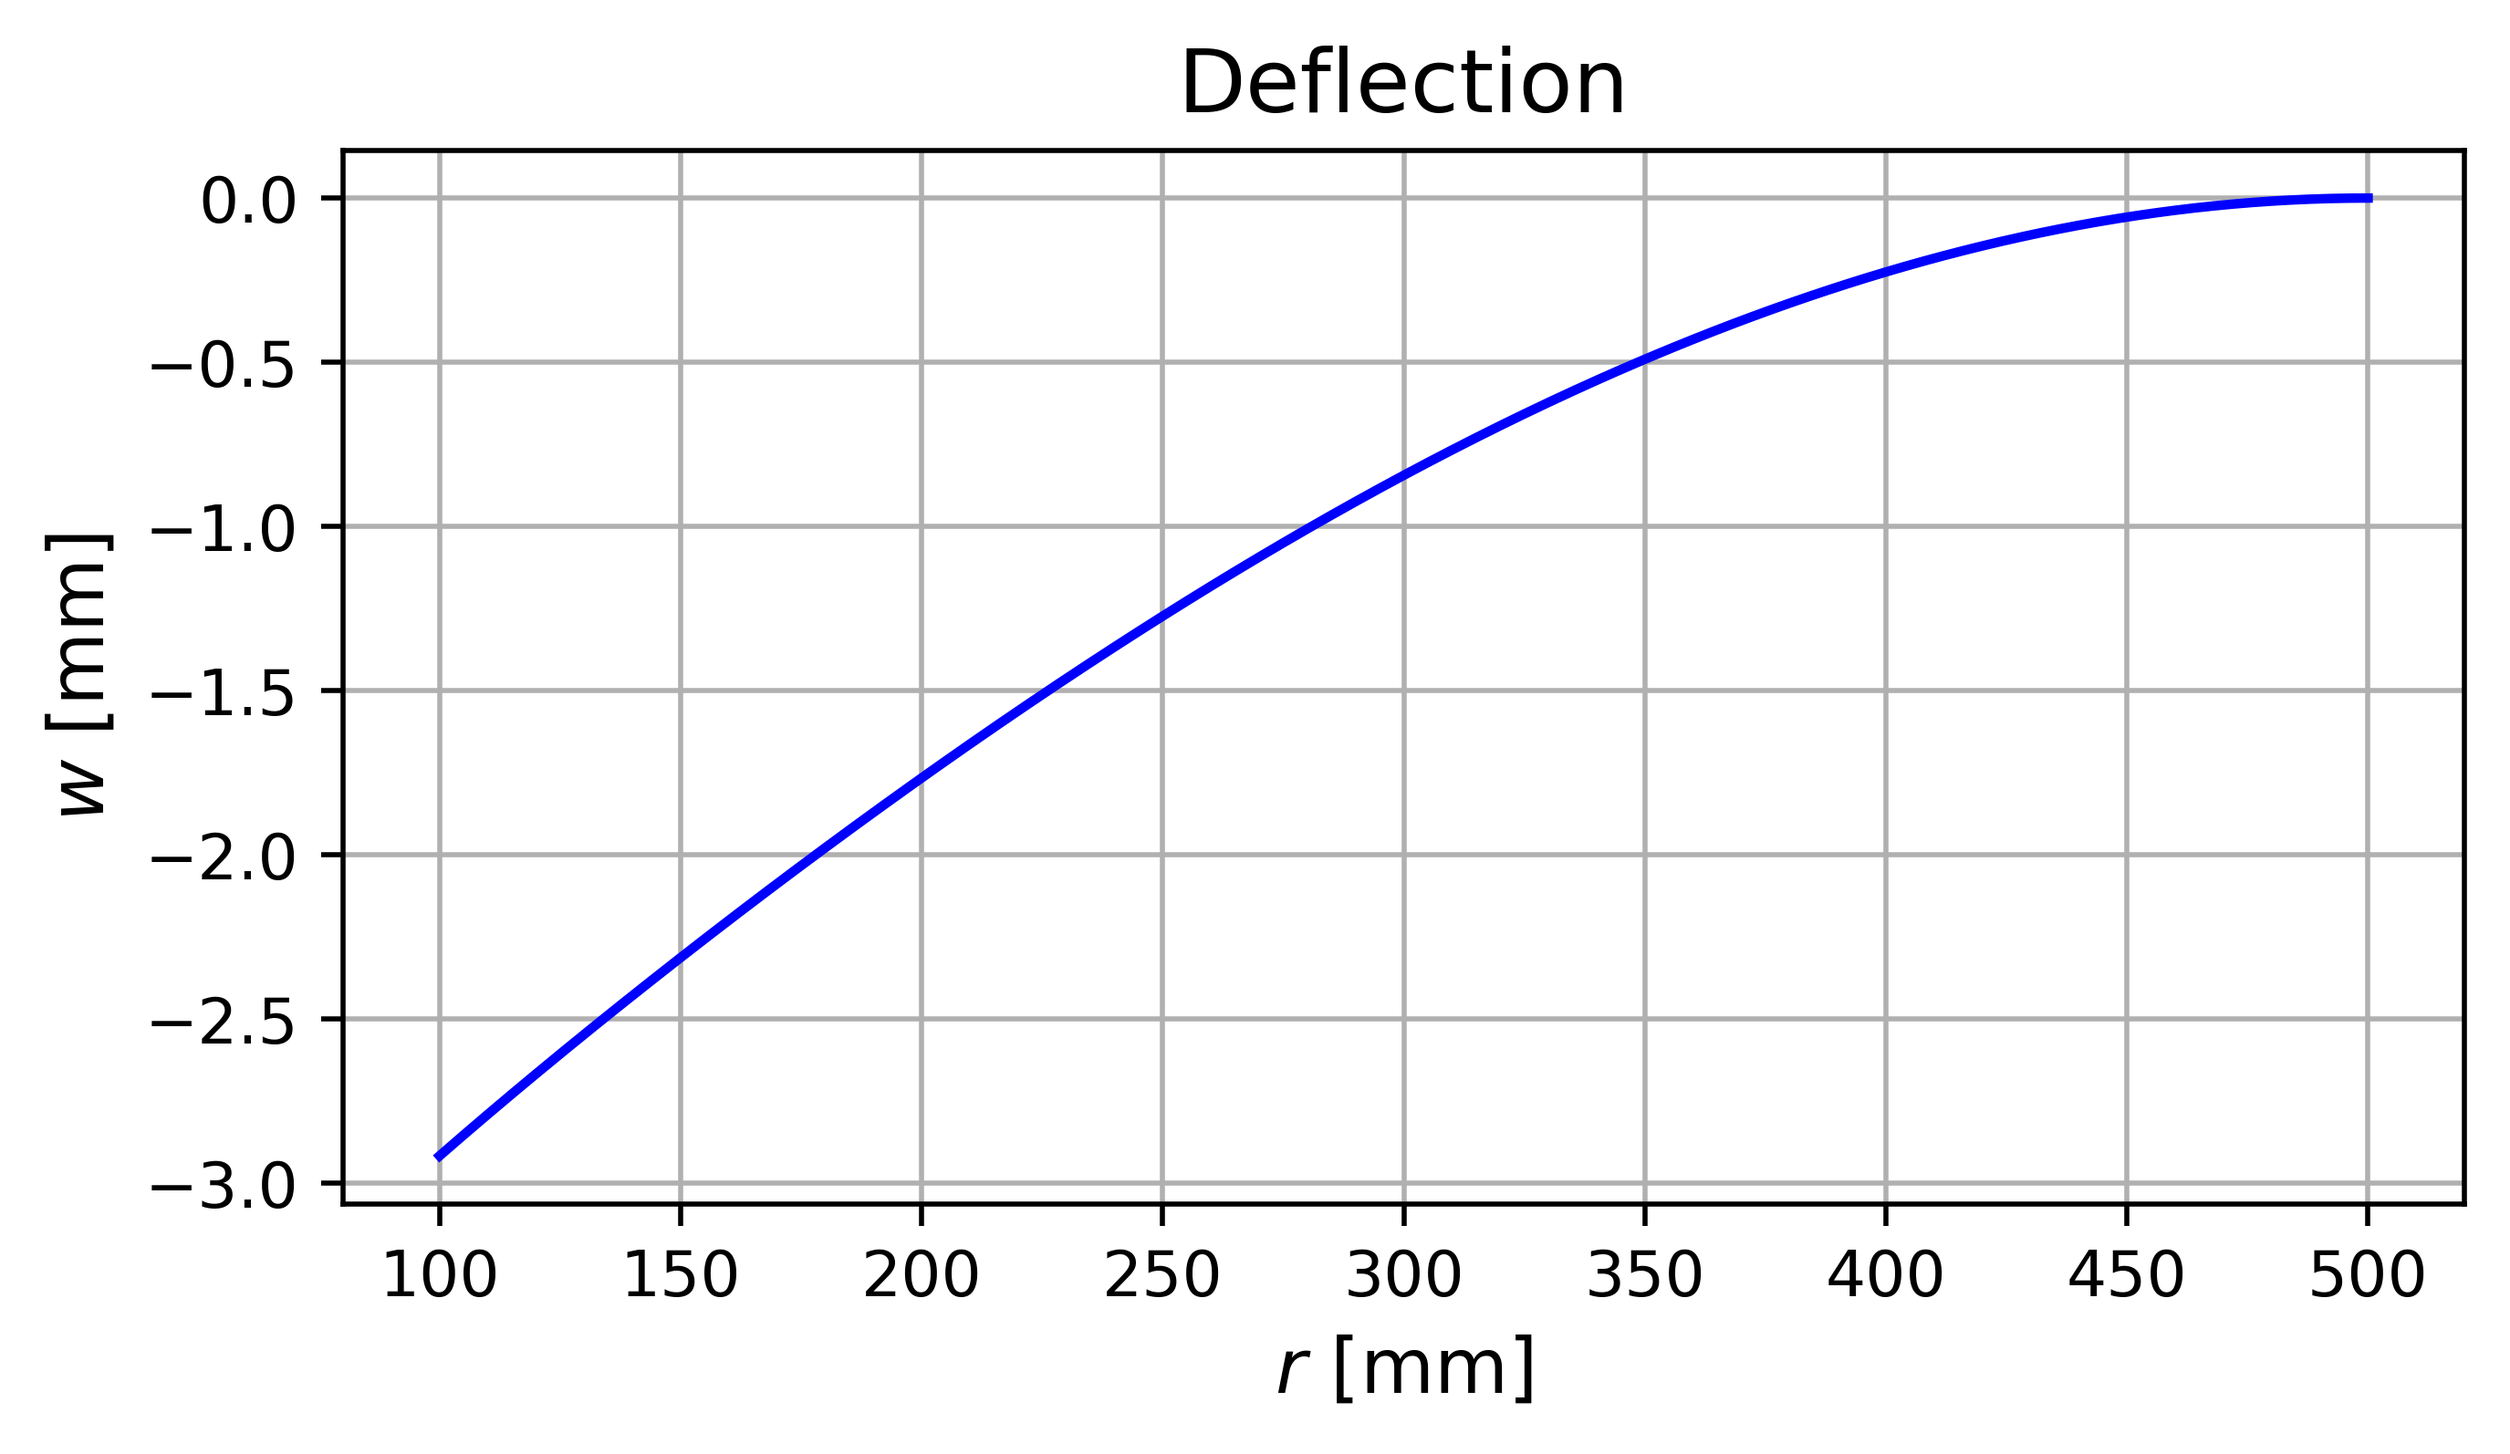
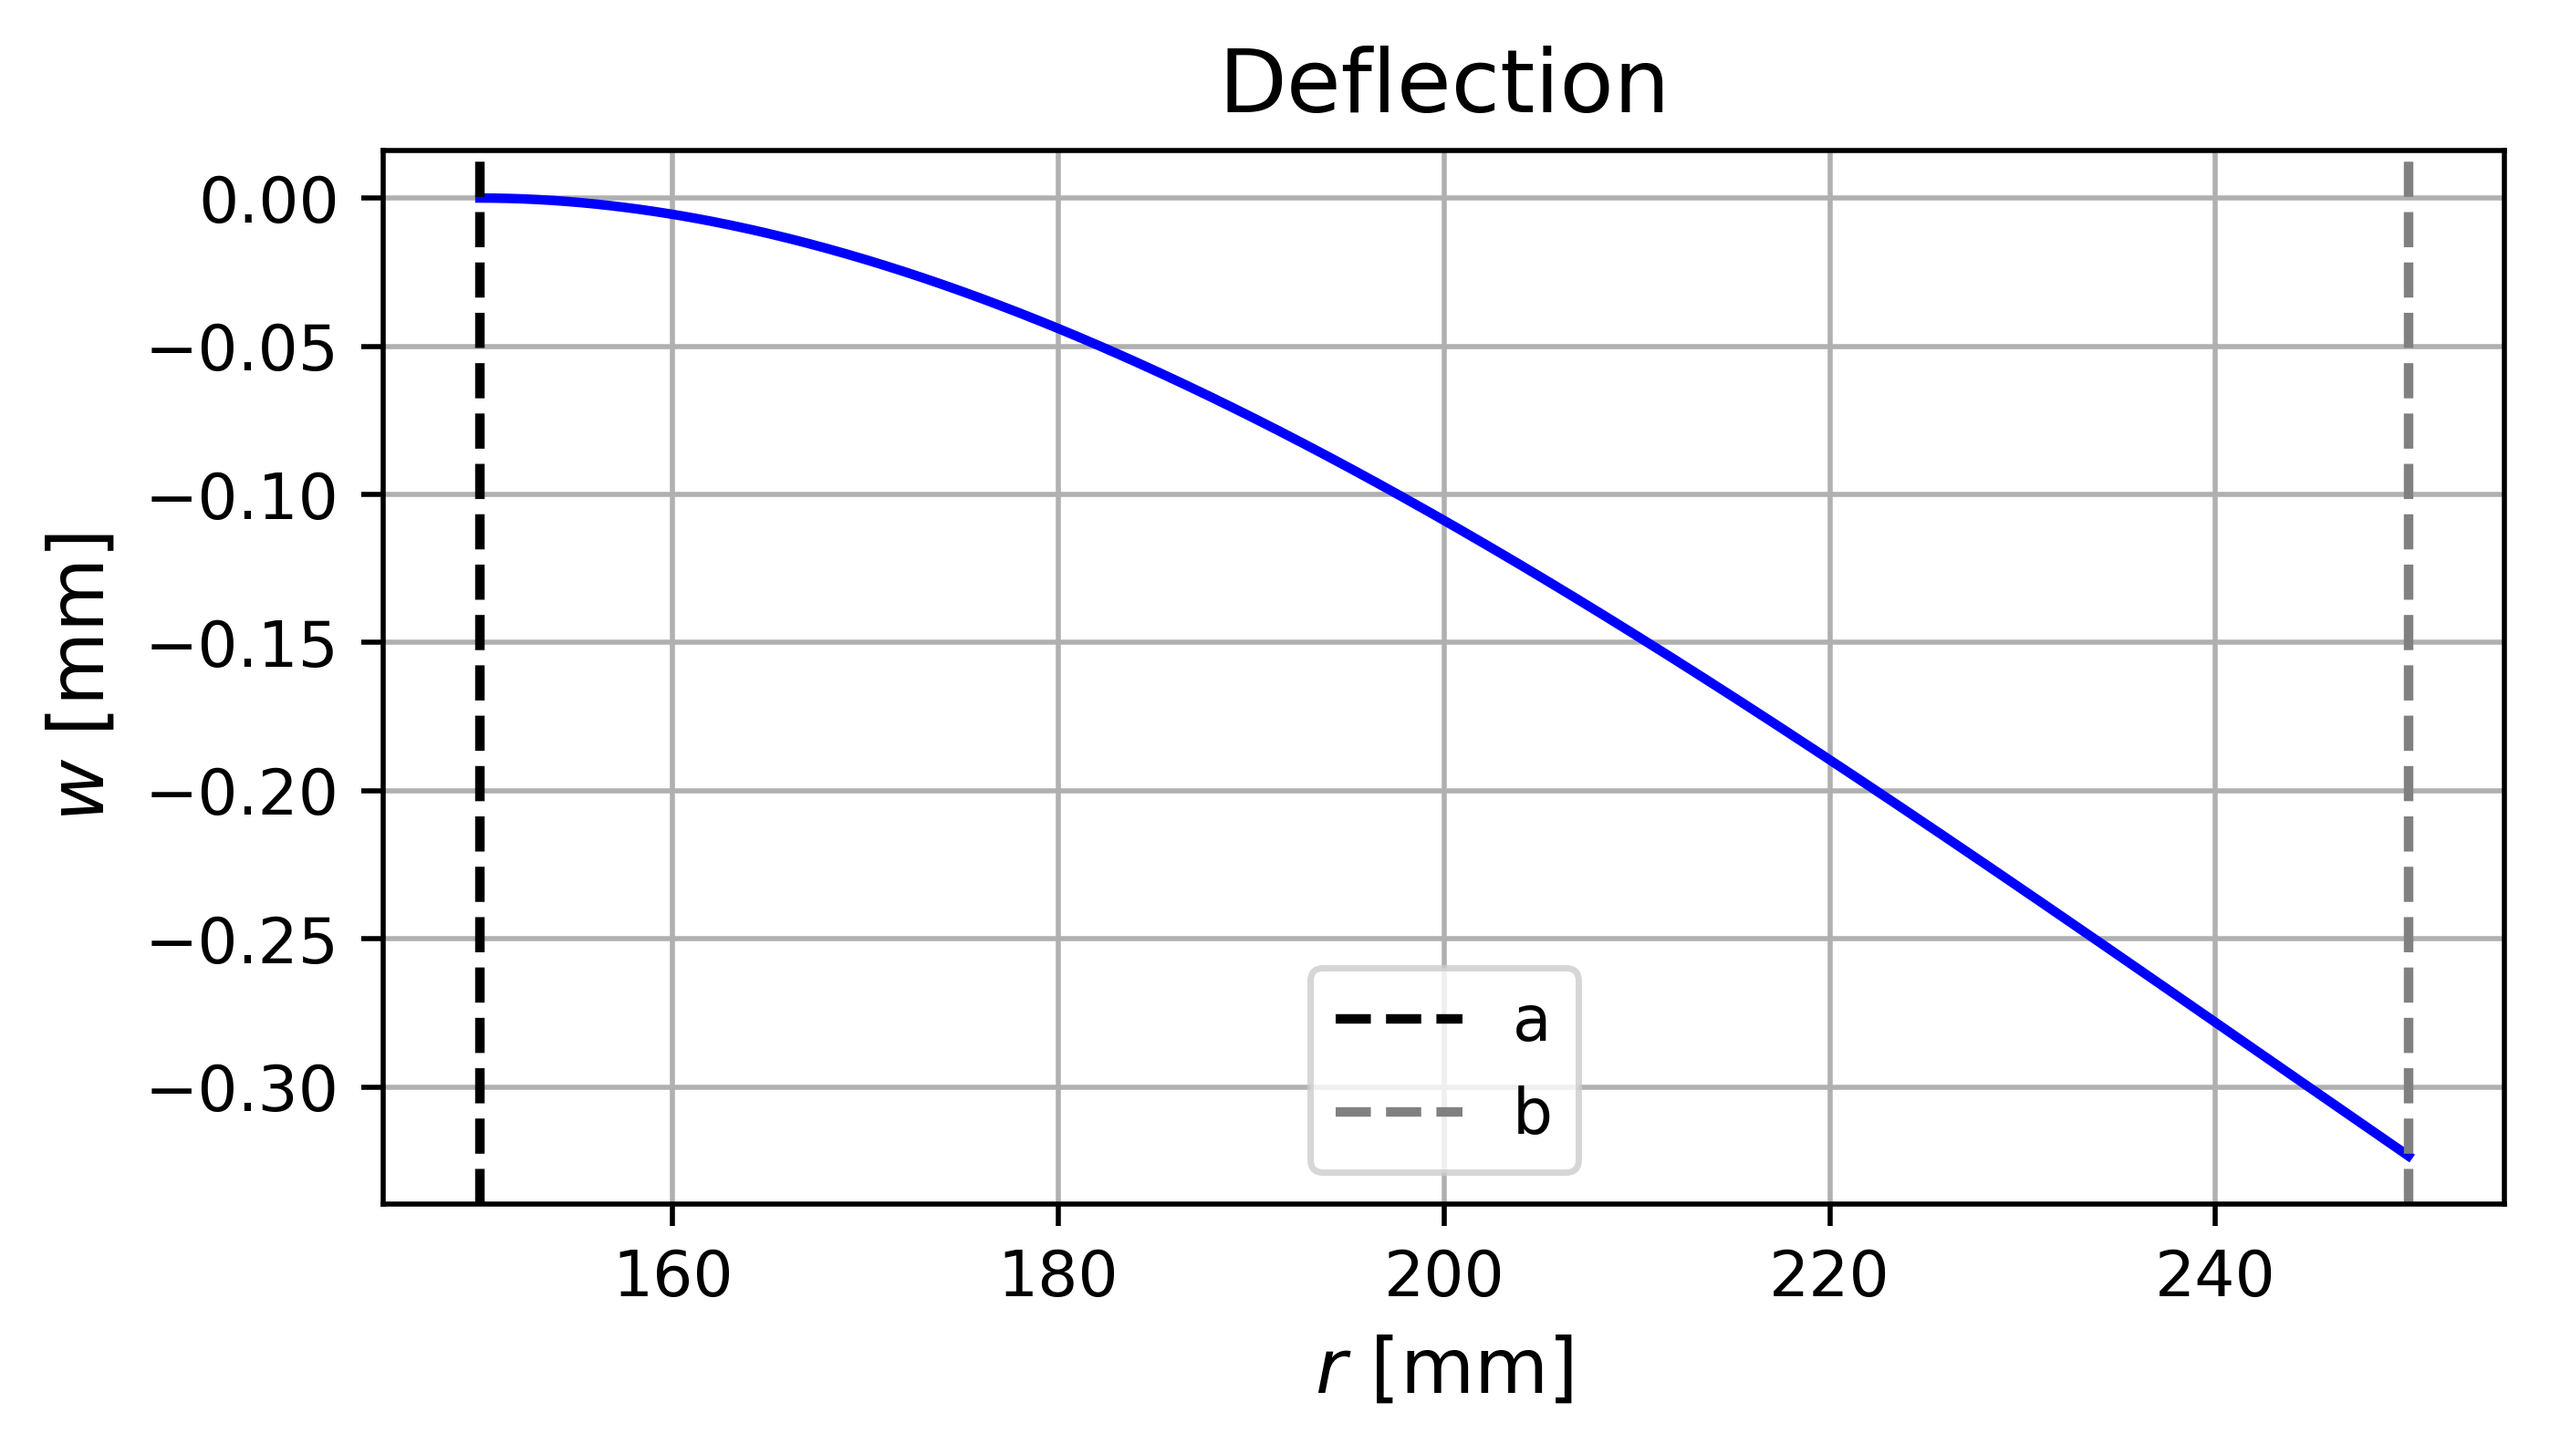
.

diff --git a/TME235/A1&A2 (TME235) - Martin.py b/TME235/A1&A2 (TME235) - Martin.py
@@ -29,7 +29,11 @@ G_num = E_num / (2 * (1 + poisson_num))
 
 # ASSIGNMENT 2 - Axissymetry
 
-
+a_num = 150 # mm
+b_num = 250 # mm
+h0_num = 20 # mm
+p_num = 120 * 10**6 # Pa
+E2_num = 200 * 10**9 # Pa
 
 #%% 
 ####################################################################################################
@@ -51,10 +55,10 @@ M = -E*I*w.diff(x, 2)
 
 # Boundary conditions for distributed load
 boundary_conditions = [ 
-                        w.subs(x, 0),                       #w(0) = 0
-                        w.diff(x).subs(x, 0),               #w'(0) = 0
-                        M.subs(x, L),                       #w''(L) = 0
-                        w.diff(x,3).subs(x, L) - P/(-E*I)   #w'''(L) = -P
+                        w.subs(x, 0),                               #w(0) = 0
+                        w.diff(x).subs(x, 0),                       #w'(0) = 0
+                        M.subs(x, L),                               #w''(L) = 0
+                        w.diff(x, 3).subs(x, L) - P / (-E * I)      #w'''(L) = -P
                         ]
 print('\nboundary conditions:')
 display(boundary_conditions)
@@ -76,11 +80,11 @@ w_vals = w_func(x_vals, L, q0_num, P_num, E_num, I_num)
 
 plt.figure()
 plt.plot(x_vals, w_vals*1e3, 'b-')
+plt.axhline(0, color='black', linestyle='--')
 plt.title('Beam Deflection under Combined Loading at L=3')
 plt.xlabel('Position along beam (m)')
 plt.ylabel('Deflection (mm)')
 plt.grid(True)
-plt.axhline(0, color='black', linestyle='--')
 plt.ylim(bottom=min(w_vals)*1e3*1.1)
 plt.xlim(0, L)
 plt.show()
@@ -93,11 +97,11 @@ w_vals = w_func(x_vals, L, q0, P_num, E_num, I_num)
 
 plt.figure()
 plt.plot(x_vals, w_vals*1e3, 'b-')
+plt.axhline(0, color='black', linestyle='--')
 plt.title('Beam Deflection under Combined Loading at L=0.3')
 plt.xlabel('Position along beam (m)')
 plt.ylabel('Deflection (mm)')
 plt.grid(True)
-plt.axhline(0, color='black', linestyle='--')
 plt.ylim(bottom=min(w_vals)*1e3*1.1)
 plt.xlim(0, L)
 plt.show()
@@ -243,10 +247,10 @@ V    = diff(M_r, r) + 1 / r * (M_r - M_phi)         # shear force field
 
 # Apply the boundary conditions
 boundary_conditions = [
-                        M_r.subs(r, a),         # inner boundary radial bending moment free
-                        V.subs(r, a) - F,       # inner boundary shear force applied
-                        w.subs(r, b),           # outer boundary deflection fixed
-                        w_prime.subs(r, b)      # outer boundary rotation fixed
+                        M_r.subs(r, b),         # outer boundary radial bending moment free
+                        V.subs(r, b) - F,       # outer boundary shear force applied
+                        w.subs(r, a),           # inner boundary deflection fixed
+                        w_prime.subs(r, a)      # inner boundary rotation fixed
                        ]
 
 # Solve for unknown constants
@@ -259,17 +263,20 @@ w_ = simplify(w.subs(sol)) # constants substituted
 print("w(r) = ", w_)
 
 # Plot the deflection field for a given set of parameters
-wp_f = simplify(w_.subs({F:1., q0:0., E:200e3, nu:0.3, a:100, b:500, h:4})) # parameters substituted
+wp_f = simplify(w_.subs({F:-p_num, q0:0, E:E2_num, nu:poisson_num, a:a_num, b:b_num, h:h0_num})) # parameters substituted
 
-r_num  = np.linspace(100., 500., 401)
+r_num  = np.linspace(150, 250, 401)
 wr_num = [wp_f.subs({r:val}) for val in r_num]
 
 plt.figure()
 plt.plot(r_num, wr_num, "b-")
+plt.axvline(a_num, color='black', linestyle='--', label='a')
+plt.axvline(b_num, color='grey', linestyle='--', label='b')
 plt.title('Deflection')
 plt.xlabel(r"$r$ [mm]")
 plt.ylabel(r"$w$ [mm]")
 plt.grid()
+plt.legend()
 plt.show()
 plt.savefig('AXISYMMETRY_1', dpi=dpi, bbox_inches='tight')
 
